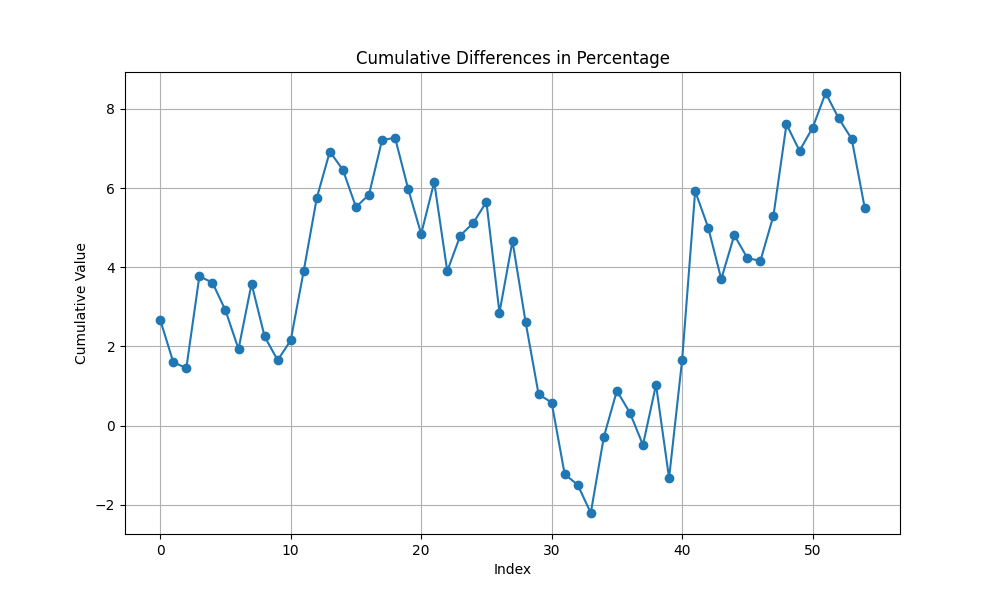
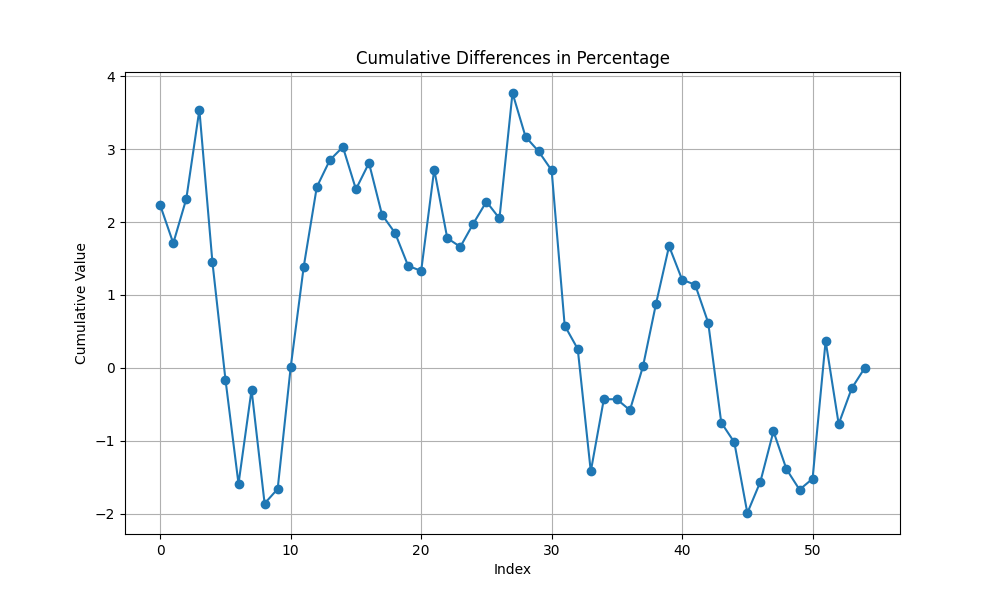
feat(model): add EarlyStopping callback and adjust training parameters
Added EarlyStopping callback to monitor training loss, improving model training efficiency. Adjusted epochs to 555 and batch size to 55 for better performance. Minor formatting changes for consistency.

diff --git a/diff.py b/diff.py
@@ -39,7 +39,14 @@ y = np.array(outputs)
 # モデルの構築
 model = models.Sequential()
 model.add(layers.Input(shape=(2,)))
-model.add(layers.Dense(32, activation="relu", kernel_initializer="he_normal"))
+model.add(
+    layers.Dense(
+        32,
+        activation="relu",
+        kernel_initializer="he_normal",
+        # kernel_regularizer=keras.regularizers.l2(0.01),
+    )
+)
 model.add(layers.Dense(1))
 
 # モデルのコンパイル
@@ -62,9 +69,19 @@ class FinalPredictionCallback(tf.keras.callbacks.Callback):
             pprint(differences_percentage)
 
 
+# EarlyStoppingコールバックの設定
+early_stopping_callback = tf.keras.callbacks.EarlyStopping(
+    monitor="loss", min_delta=0.0001, patience=1000, verbose=1, mode="min"
+)
+
 # モデルのトレーニング
 history = model.fit(
-    X, y, epochs=200, batch_size=10, verbose=0, callbacks=[FinalPredictionCallback()]
+    X,
+    y,
+    epochs=555,
+    batch_size=55,
+    verbose=0,
+    callbacks=[FinalPredictionCallback(), early_stopping_callback],
 )
 
 # モデルの評価
@@ -74,6 +91,7 @@ pprint(f"Final Loss: {loss:.6f}\n")
 # 累積結果を格納するリストを初期化
 cumulative_results = []
 
+
 # reduceを使って蓄積しながら結果をリストに格納する関数
 def accumulate_and_collect(accumulated, current):
     new_accumulated = accumulated + current
@@ -81,16 +99,17 @@ def accumulate_and_collect(accumulated, current):
     cumulative_results.append(new_accumulated)
     return new_accumulated
 
+
 # 初期値0でreduceを実行
 final_result = reduce(accumulate_and_collect, differences_percentage, 0)
 print(cumulative_results)
 
 # グラフをプロット
 plt.figure(figsize=(10, 6))
-plt.plot(cumulative_results, marker='o')
-plt.title('Cumulative Differences in Percentage')
-plt.xlabel('Index')
-plt.ylabel('Cumulative Value')
+plt.plot(cumulative_results, marker="o")
+plt.title("Cumulative Differences in Percentage")
+plt.xlabel("Index")
+plt.ylabel("Cumulative Value")
 plt.grid(True)
 plt.savefig("./image/latest-acc.png")  # showの前でないと機能しない
 plt.show()
